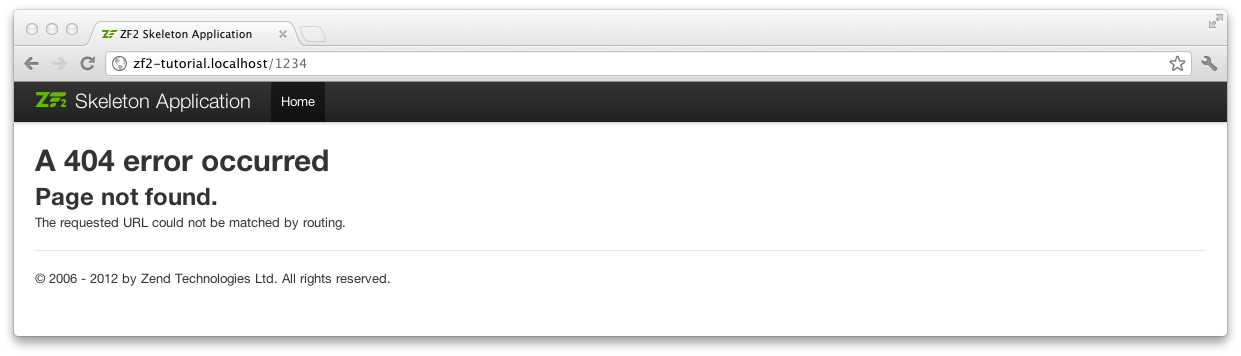
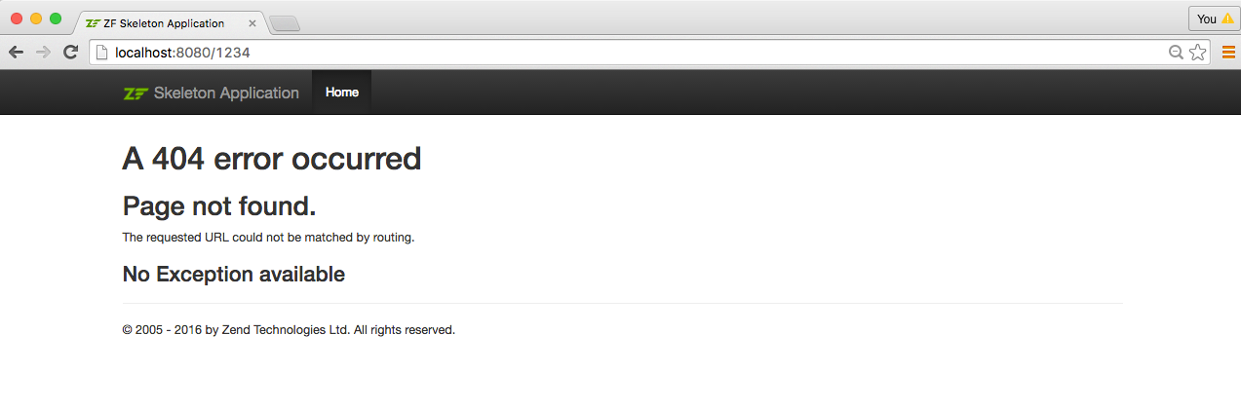
Updated user-guide images, per @samsonasik

Changed region(s): [[0.0, 0.0, 1.0, 0.9888]]

diff --git a/index.html b/index.html
@@ -454,5 +454,5 @@
 
 <!--
 MkDocs version : 0.15.3
-Build Date UTC : 2016-06-15 17:36:16.330340
+Build Date UTC : 2016-06-15 19:40:44.131182
 -->
